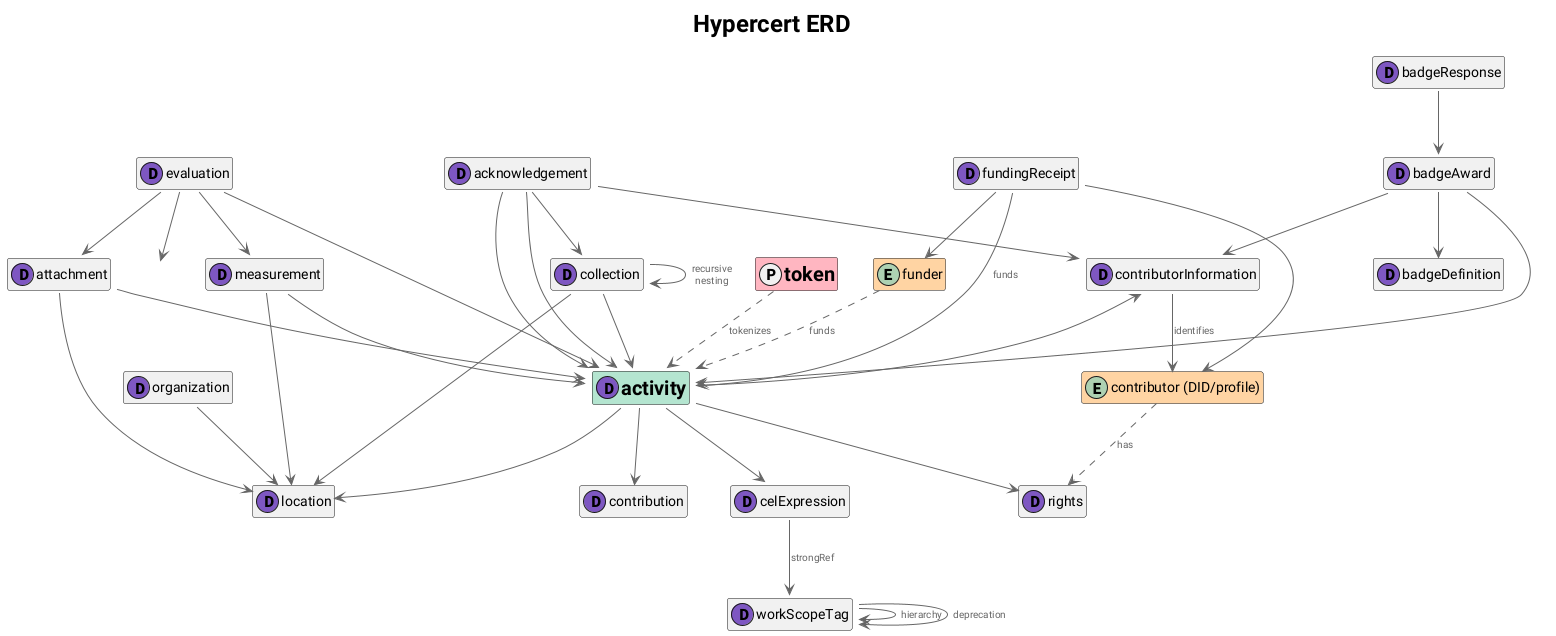
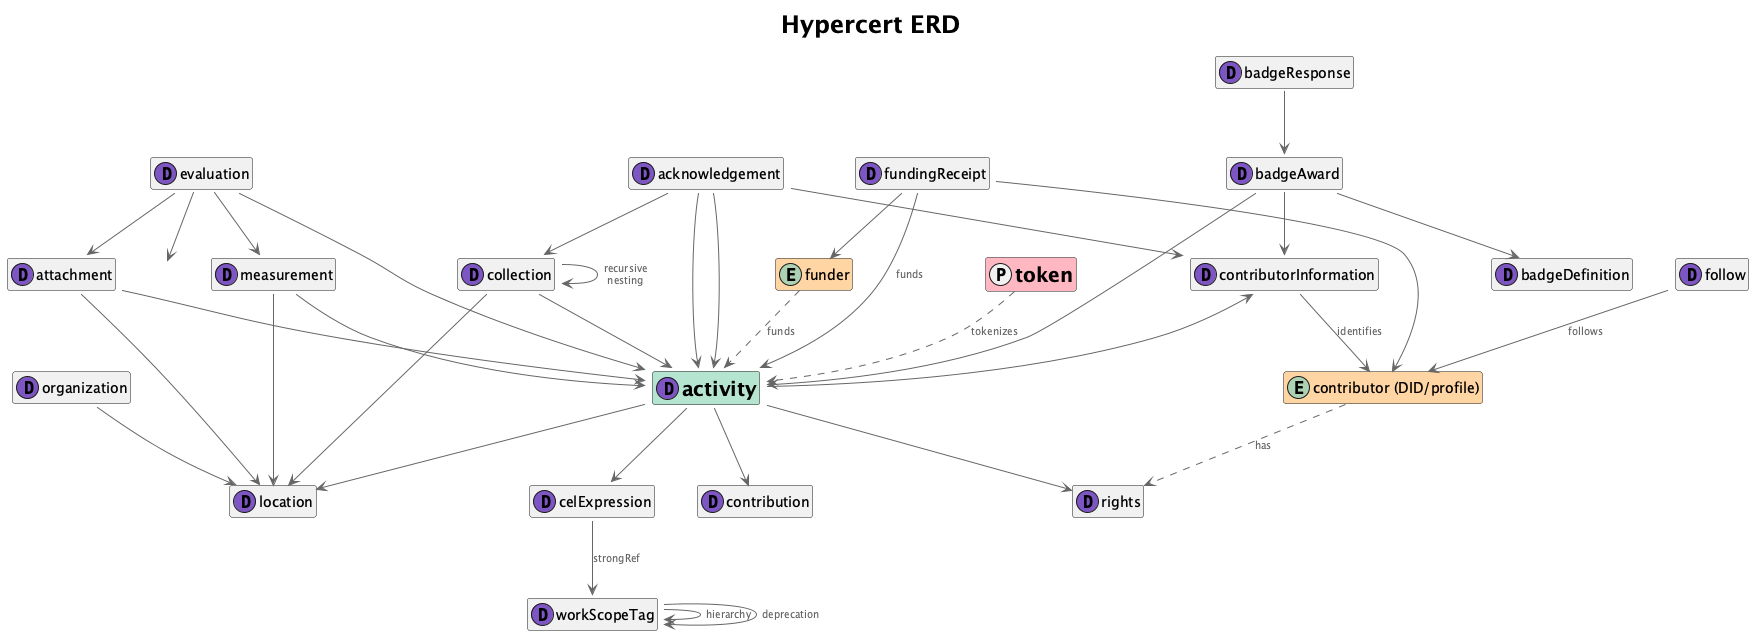
Merge pull request #209 from hypercerts-org/feature/add-graph-follow-lexicon
feat: add app.certified.graph.follow lexicon

Pull request: feat: add app.certified.graph.follow lexicon
Fixes HYPER-399

Adds a social-graph follow record under the app.certified namespace that is schema-compatible with app.bsky.graph.follow:

  - same record key (tid)
  - same required fields (subject: did, createdAt: datetime)
  - same optional via field (com.atproto.repo.strongRef)
  - same lexicon description

This lets feed-builders and view services index certified.app follows with the same logic they already use for Bluesky follows, and gives the certified.app ecosystem a primitive social graph.

Also includes:

  - generated TypeScript types and exports (GRAPH_FOLLOW_NSID, GRAPH_FOLLOW_LEXICON_JSON / DOC, AppCertifiedGraphFollow)
  - 8 validation tests in tests/validate-graph-follow.test.ts
  - regenerated SCHEMAS.md
  - README.md, SKILL.md, and ERD.puml updates documenting the new lexicon
  - changeset (minor)

The strongref-documentation linter rule is satisfied by noting in the via description that the referenced record may conform with any lexicon (mirroring bsky's open use of the field for things like starter packs).

<!-- This is an auto-generated comment: release notes by coderabbit.ai -->
## Summary by CodeRabbit

* **New Features**
  * Added a certified social-graph "follow" primitive for account-to-account relationships, with optional mediator references.

* **Documentation**
  * Added guides and a TypeScript example for constructing follow records.
[…]

diff --git a/tests/validate-graph-follow.test.ts b/tests/validate-graph-follow.test.ts
@@ -1,0 +1,111 @@
+import { describe, it, expect } from "vitest";
+import { validate, ids } from "../generated/lexicons";
+import * as Follow from "../generated/types/app/certified/graph/follow";
+
+const VALID_DID = "did:plc:ewvi7nxzyoun6zhxrhs64oiz";
+const VALID_CID = "bafyreigh2akiscaildcqabsyg3dfr6chu3fgpregiymsck7e7aqa4s52zy";
+
+describe("app.certified.graph.follow", () => {
+  it("should accept a valid follow record (subject + createdAt only)", () => {
+    const result = Follow.validateMain({
+      $type: ids.AppCertifiedGraphFollow,
+      subject: VALID_DID,
+      createdAt: "2024-01-01T00:00:00Z",
+    });
+    expect(result.success).toBe(true);
+    if (result.success) {
+      expect(result.value.subject).toBe(VALID_DID);
+    }
+  });
+
+  it("should accept a follow record with optional via strongRef", () => {
+    const result = Follow.validateMain({
+      $type: ids.AppCertifiedGraphFollow,
+      subject: VALID_DID,
+      createdAt: "2024-01-01T00:00:00Z",
+      via: {
+        uri: "at://did:plc:alice/app.certified.graph.starterpack/3k2abc",
+        cid: VALID_CID,
+      },
+    });
+    expect(result.success).toBe(true);
+    if (result.success) {
+      expect(result.value.via?.uri).toBe(
+        "at://did:plc:alice/app.certified.graph.starterpack/3k2abc",
+      );
+    }
+  });
+
+  it("should reject a record missing required subject", () => {
+    const result = validate(
+      { createdAt: "2024-01-01T00:00:00Z" },
+      ids.AppCertifiedGraphFollow,
+      "main",
+      false,
+    );
+    expect(result.success).toBe(false);
+  });
+
+  it("should reject a record missing required createdAt", () => {
+    const result = validate(
+      { subject: VALID_DID },
+      ids.AppCertifiedGraphFollow,
+      "main",
+      false,
+    );
+    expect(result.success).toBe(false);
+  });
+
+  it("should reject a subject that is not a valid DID", () => {
+    const result = validate(
+      {
+        subject: "not-a-did",
+        createdAt: "2024-01-01T00:00:00Z",
+      },
+      ids.AppCertifiedGraphFollow,
+      "main",
+      false,
+    );
+    expect(result.success).toBe(false);
+  });
+
+  it("should reject an invalid datetime", () => {
+    const result = validate(
+      {
+        subject: VALID_DID,
+        createdAt: "not-a-datetime",
+      },
+      ids.AppCertifiedGraphFollow,
+      "main",
+      false,
+    );
+    expect(result.success).toBe(false);
+  });
+
+  it("should reject a via that is not a valid strongRef", () => {
+    const result = validate(
+      {
+        subject: VALID_DID,
+        createdAt: "2024-01-01T00:00:00Z",
+        via: { uri: "at://did:plc:alice/app.certified.graph.starterpack/x" }, // missing cid
+      },
+      ids.AppCertifiedGraphFollow,
+      "main",
+      false,
+    );
+    expect(result.success).toBe(false);
+  });
+
+  it("should require $type when requiredType is true", () => {
+    const result = validate(
+      {
+        subject: VALID_DID,
+        createdAt: "2024-01-01T00:00:00Z",
+      },
+      ids.AppCertifiedGraphFollow,
+      "main",
+      true,
+    );
+    expect(result.success).toBe(false);
+  });
+});

diff --git a/README.md b/README.md
@@ -45,6 +45,7 @@ CERTIFIED ─ shared lexicons (certified.app)
   actor/profile             (user profile)
   actor/organization        (org metadata)
   badge/response ──► badge/award ──► badge/definition
+  graph/follow ────────────► account DID  (social follow)
 ```
 
 Every arrow (`►`) is a `strongRef` or union reference stored on the
@@ -266,15 +267,16 @@ await agent.api.com.atproto.repo.createRecord({
 
 ### Certified (`app.certified.*`)
 
-| Lexicon              | NSID                               | Description                                                                                                                       |
-| -------------------- | ---------------------------------- | --------------------------------------------------------------------------------------------------------------------------------- |
-| **Location**         | `app.certified.location`           | Geographic reference using the [Location Protocol](https://spec.decentralizedgeo.org) (coordinates, GeoJSON, H3, WKT, etc.).      |
-| **Profile**          | `app.certified.actor.profile`      | User account profile with display name, bio, avatar, and banner.                                                                  |
-| **Organization**     | `app.certified.actor.organization` | Organization metadata: legal structure, URLs, location, founding date, optional long description, and discoverability visibility. |
-| **Badge Definition** | `app.certified.badge.definition`   | Defines a badge type with title, icon, and optional issuer allowlist.                                                             |
-| **Badge Award**      | `app.certified.badge.award`        | Awards a badge to a user, project, or activity.                                                                                   |
-| **Badge Response**   | `app.certified.badge.response`     | Recipient accepts or rejects a badge award.                                                                                       |
-| **EVM Link**         | `app.certified.link.evm`           | Verifiable ATProto DID ↔ EVM wallet link via EIP-712 signature. Extensible for future proof methods (e.g. ERC-1271, ERC-6492).   |
+| Lexicon              | NSID                               | Description                                                                                                                                 |
+| -------------------- | ---------------------------------- | ------------------------------------------------------------------------------------------------------------------------------------------- |
+| **Location**         | `app.certified.location`           | Geographic reference using the [Location Protocol](https://spec.decentralizedgeo.org) (coordinates, GeoJSON, H3, WKT, etc.).                |
+| **Profile**          | `app.certified.actor.profile`      | User account profile with display name, bio, avatar, and banner.                                                                            |
+| **Organization**     | `app.certified.actor.organization` | Organization metadata: legal structure, URLs, location, founding date, optional long description, and discoverability visibility.           |
+| **Badge Definition** | `app.certified.badge.definition`   | Defines a badge type with title, icon, and optional issuer allowlist.                                                                       |
+| **Badge Award**      | `app.certified.badge.award`        | Awards a badge to a user, project, or activity.                                                                                             |
+| **Badge Response**   | `app.certified.badge.response`     | Recipient accepts or rejects a badge award.                                                                                                 |
+| **EVM Link**         | `app.certified.link.evm`           | Verifiable ATProto DID ↔ EVM wallet link via EIP-712 signature. Extensible for future proof methods (e.g. ERC-1271, ERC-6492).             |
+| **Follow**           | `app.certified.graph.follow`       | Social-graph follow relationship — declares that the author follows another account by DID. Schema-compatible with `app.bsky.graph.follow`. |
 
 > **Full property tables** → [SCHEMAS.md](SCHEMAS.md)
 
@@ -575,6 +577,35 @@ npm run format        # Auto-fix formatting
 npm run gen-schemas-md # Regenerate SCHEMAS.md
 npm run test          # Run tests
 ```
+
+### Following another account
+
+The `app.certified.graph.follow` record is the social-graph primitive
+for `certified.app`. Its shape is identical to `app.bsky.graph.follow`
+(same `key: tid`, same `subject` / `createdAt` / optional `via`
+fields), so feed-builders and view services can index it with the
+same logic they already use for Bluesky follows.
+
+```typescript
+import { GRAPH_FOLLOW_NSID } from "@hypercerts-org/lexicon";
+
+const follow = {
+  $type: GRAPH_FOLLOW_NSID,
+  // DID of the account being followed (any valid DID — did:plc, did:web, etc.)
+  subject: "did:plc:ewvi7nxzyoun6zhxrhs64oiz",
+  createdAt: new Date().toISOString(),
+  // Optional `via` strongRef — set when the follow was mediated by another
+  // record (e.g. a starter-pack-style curated list). Omit for direct follows.
+  // via: {
+  //   uri: "at://did:plc:ewvi7nxzyoun6zhxrhs64oiz/app.certified.graph.starterpack/3k2abc",
+  //   cid: "bafyreigh2akiscaildcqabsyg3dfr6chu3fgpregiymsck7e7aqa4s52zy",
+  // },
+};
+```
+
+The optional `via` field is a `com.atproto.repo.strongRef` to any
+record that mediated the follow (e.g. a starter pack or other curated
+list), mirroring the equivalent field on `app.bsky.graph.follow`.
 
 ### Linking ATProto Identity to EVM Wallets
 

diff --git a/.agents/skills/building-with-hypercerts-lexicons/SKILL.md b/.agents/skills/building-with-hypercerts-lexicons/SKILL.md
@@ -247,6 +247,7 @@ if (result.success) {
 | **Badge Award**      | `app.certified.badge.award`        | Awards a badge to a user, project, or activity                                                                               |
 | **Badge Response**   | `app.certified.badge.response`     | Recipient accepts or rejects a badge award                                                                                   |
 | **EVM Link**         | `app.certified.link.evm`           | Verifiable ATProto DID to EVM wallet link via EIP-712 signature                                                              |
+| **Follow**           | `app.certified.graph.follow`       | Social-graph follow: declares the author follows another account by DID. Schema-compatible with `app.bsky.graph.follow`      |
 
 ## Relationship Map
 
@@ -283,6 +284,7 @@ CERTIFIED
   actor/profile            (user profile)
   actor/organization       (org metadata)
   badge/response ──> badge/award ──> badge/definition
+  graph/follow ───────────> account DID (social follow)
 ```
 
 Every arrow is a `strongRef` or union reference stored on AT Protocol.
@@ -386,6 +388,30 @@ const location = {
   createdAt: new Date().toISOString(),
 };
 ```
+
+### Following another account
+
+```typescript
+import { GRAPH_FOLLOW_NSID } from "@hypercerts-org/lexicon";
+
+const follow = {
+  $type: GRAPH_FOLLOW_NSID,
+  // DID of the account being followed (any valid DID — did:plc, did:web, etc.)
+  subject: "did:plc:ewvi7nxzyoun6zhxrhs64oiz",
+  createdAt: new Date().toISOString(),
+  // Optional `via` strongRef — set when the follow was mediated by another
+  // record (e.g. a starter-pack-style curated list). Omit for direct follows.
+  // via: {
+  //   uri: "at://did:plc:ewvi7nxzyoun6zhxrhs64oiz/app.certified.graph.starterpack/3k2abc",
+  //   cid: "bafyreigh2akiscaildcqabsyg3dfr6chu3fgpregiymsck7e7aqa4s52zy",
+  // },
+};
+```
+
+`app.certified.graph.follow` mirrors `app.bsky.graph.follow` (same
+key strategy and fields including the optional `via` strongRef), so
+feed-builders and view services can index it with the same logic
+they already use for Bluesky follows.
 
 ### Linking an EVM Wallet
 

diff --git a/SCHEMAS.md b/SCHEMAS.md
@@ -467,6 +467,22 @@ A labeled URL reference.
 
 ---
 
+### `app.certified.graph.follow`
+
+**Description:** Record declaring a social 'follow' relationship of another account. Duplicate follows will be ignored by the AppView.
+
+**Key:** `tid`
+
+#### Properties
+
+| Property    | Type     | Required | Description                                                                                                                                                                                                                 |
+| ----------- | -------- | -------- | --------------------------------------------------------------------------------------------------------------------------------------------------------------------------------------------------------------------------- |
+| `subject`   | `string` | ✅       | DID of the account being followed.                                                                                                                                                                                          |
+| `createdAt` | `string` | ✅       | Client-declared timestamp when this record was originally created.                                                                                                                                                          |
+| `via`       | `ref`    | ❌       | Optional strong reference to a record that mediated this follow (e.g. a starter pack or other curated list). Mirrors the optional `via` field on app.bsky.graph.follow; the referenced record may conform with any lexicon. |
+
+---
+
 ### `app.certified.link.evm`
 
 **Description:** A verifiable link between an ATProto DID and an EVM wallet address, proven via a cryptographic signature. Currently supports EOA wallets via EIP-712 typed data signatures; the proof field is an open union to allow future signature methods.

diff --git a/.changeset/add-graph-follow-lexicon.md b/.changeset/add-graph-follow-lexicon.md
@@ -1,0 +1,5 @@
+---
+"@hypercerts-org/lexicon": minor
+---
+
+Add `app.certified.graph.follow` lexicon — a social-graph follow record schema-compatible with `app.bsky.graph.follow` (same `tid` key, same `subject` / `createdAt` / optional `via` strongRef fields). Exports new `GRAPH_FOLLOW_NSID`, `GRAPH_FOLLOW_LEXICON_JSON`, `GRAPH_FOLLOW_LEXICON_DOC`, and `AppCertifiedGraphFollow` type namespace.